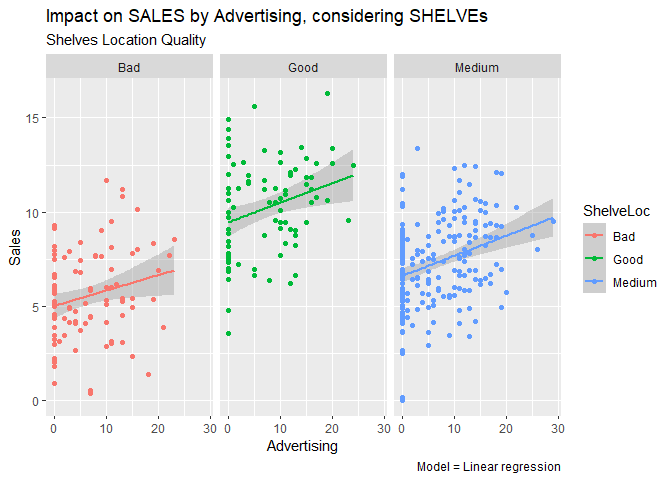
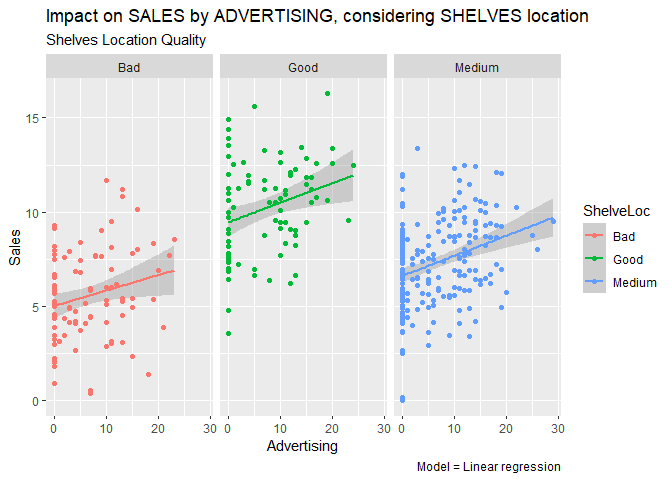
R

Changed region(s): [[0.3438, 0.0, 0.875, 0.0625]]

diff --git a/DataWrangling/week_5_Visualization and EDA/Practices/Assis_1.md b/DataWrangling/week_5_Visualization and EDA/Practices/Assis_1.md
@@ -28,7 +28,11 @@ library(ISLR)
 
 ## Question 2:
 
-### Run the code below to generate data. There will be three vectors in your environment. Put them in a data frame for entering it in a ggplot() call using either the data.frame() or the tibble() function. Give informative names and make sure the types are correct (use the as.<type>() functions). Name the result gg\_students
+Run the code below to generate data. There will be three vectors in your
+environment. Put them in a data frame for entering it in a ggplot() call
+using either the data.frame() or the tibble() function. Give informative
+names and make sure the types are correct (use the as.<type>()
+functions). Name the result gg\_students
 
 ``` r
 set.seed(1234)
@@ -65,7 +69,8 @@ head(gg_students)
 
 ## Question 2
 
-### Plot the first homeruns\_plot again, but map the Hits to the y-axis and the HmRun to the x-axis instead.
+Plot the first homeruns\_plot again, but map the Hits to the y-axis and
+the HmRun to the x-axis instead.
 
 ``` r
 homeruns_plot <- 
@@ -80,7 +85,8 @@ homeruns_plot
 
 ## Question 4:
 
-### Recreate the same plot once more, but now also map the variable League to the colour aesthetic and the variable Salary to the size aesthetic.
+Recreate the same plot once more, but now also map the variable League
+to the colour aesthetic and the variable Salary to the size aesthetic.
 
 ``` r
 homeruns_plot2 <- 
@@ -97,13 +103,14 @@ homeruns_plot2
 
 ## question 5:
 
-### Look at the many different geoms on the reference website.
-
+Look at the many different geoms on the reference website.
 <https://ggplot2.tidyverse.org/reference/#section-layer-geoms>
 
 ## Question 6:
 
-### Use geom\_histogram() to create a histogram of the grades of the students in the gg\_students dataset. Play around with the binwidth argument of the geom\_histogram() function.
+Use geom\_histogram() to create a histogram of the grades of the
+students in the gg\_students dataset. Play around with the binwidth
+argument of the geom\_histogram() function.
 
 ``` r
  gg_students_plot <- 
@@ -134,7 +141,9 @@ gg_students_plot
 
 ## Question 7
 
-### Use geom\_density() to create a density plot of the grades of the students in the gg\_students dataset. Add the argument fill = “light seagreen” to geom\_density()
+Use geom\_density() to create a density plot of the grades of the
+students in the gg\_students dataset. Add the argument fill = “light
+seagreen” to geom\_density()
 
 ``` r
 gg_students_plot_3 <- 
@@ -151,7 +160,9 @@ gg_students_plot_3
 
 ## Question 8:
 
-### Add rug marks to the density plot through geom\_rug(). You can edit the colour and size of the rug marks using those arguments within the geom\_rug() function.
+Add rug marks to the density plot through geom\_rug(). You can edit the
+colour and size of the rug marks using those arguments within the
+geom\_rug() function.
 
 ``` r
 gg_students_plot_3 <- 
@@ -479,7 +490,7 @@ the ISLR package.
     facet_grid( ~ Urban) + 
     facet_grid(~ ShelveLoc) + 
     labs(subtitle = "Shelves Location Quality" , caption = "Model = Linear regression" ) + 
-    ggtitle('Impact on SALES by POPULATION, considering URBAN and SHELVES ')
+    ggtitle('Impact on SALES by POPULATION, considering URBAN and SHELVES location')
     
   
   Sales_Corr
@@ -497,7 +508,7 @@ the ISLR package.
 #    facet_grid( ~ Urban) + 
     facet_grid(~ ShelveLoc) + 
     labs(subtitle = "Shelves Location Quality" , caption = "Model = Linear regression" ) + 
-    ggtitle('Impact on SALES by Advertising, considering SHELVEs')
+    ggtitle('Impact on SALES by ADVERTISING, considering SHELVES location')
     
   
   Sales_Corr
